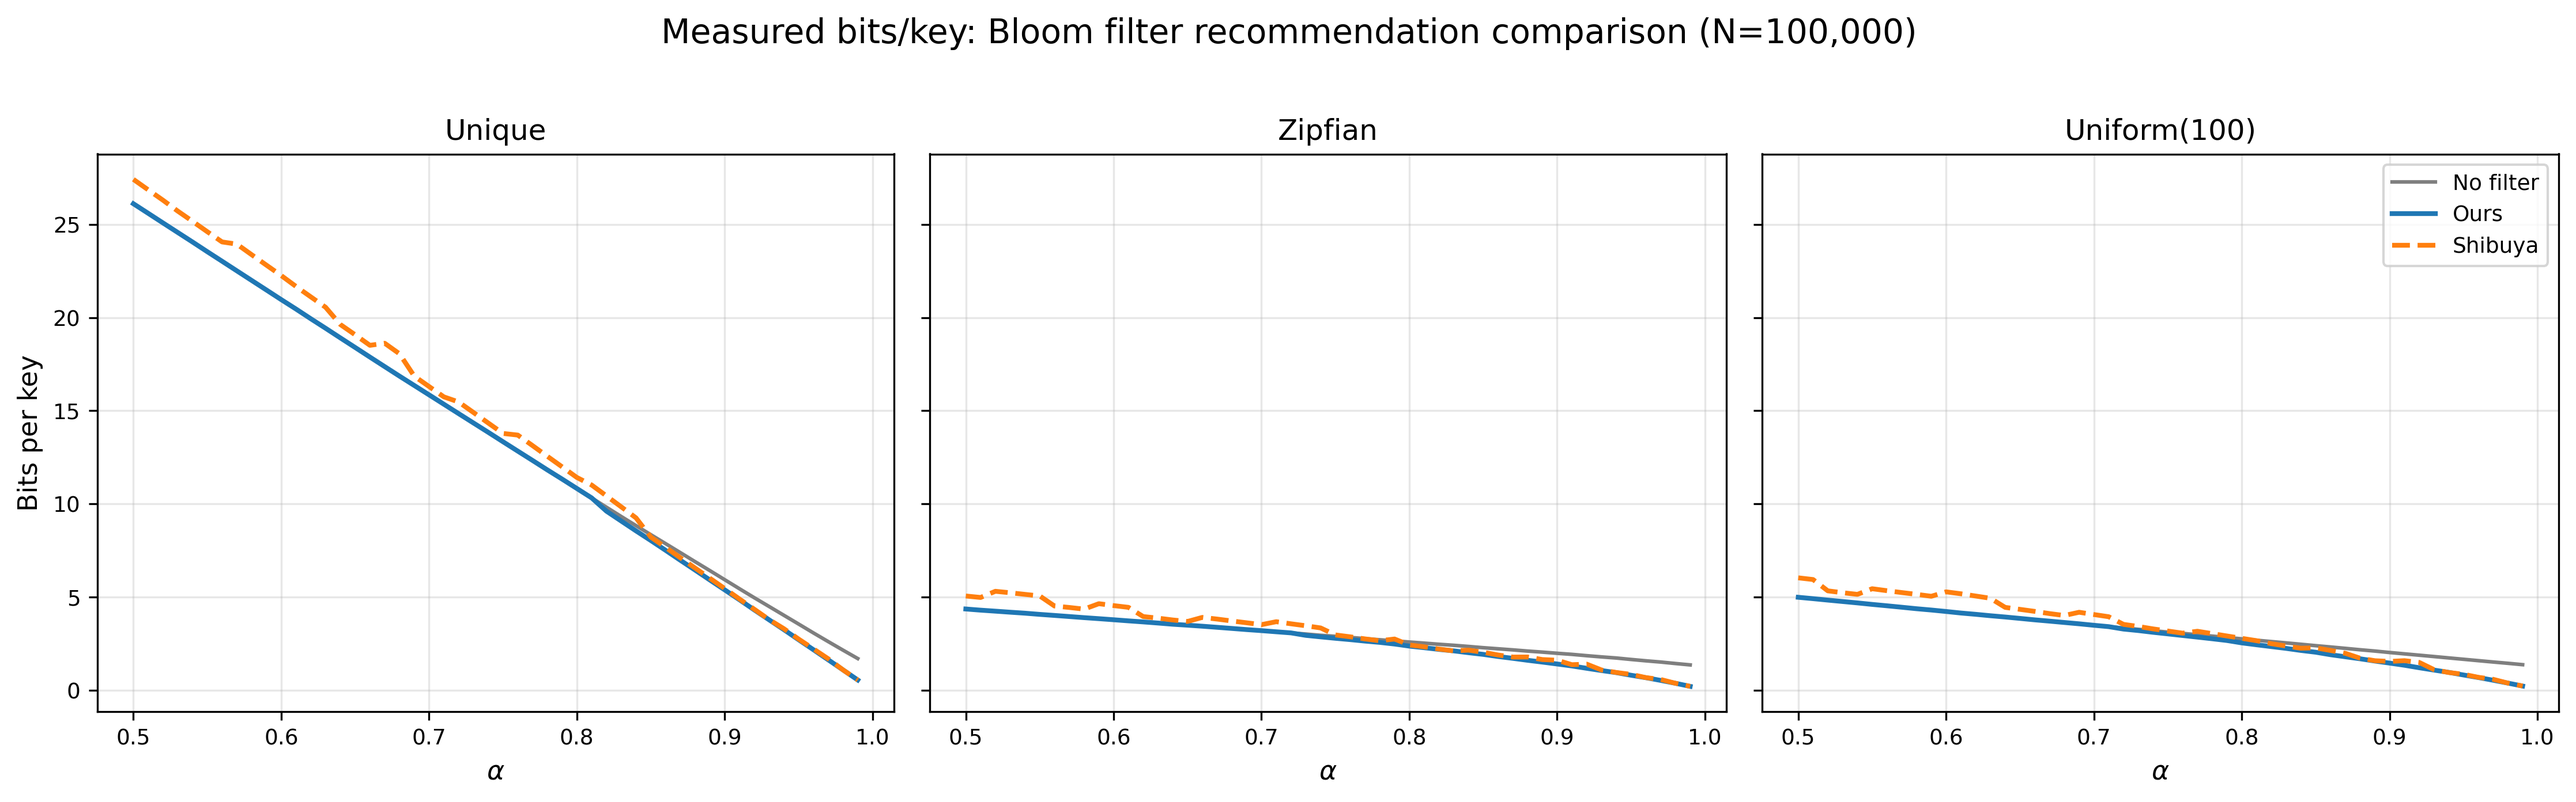
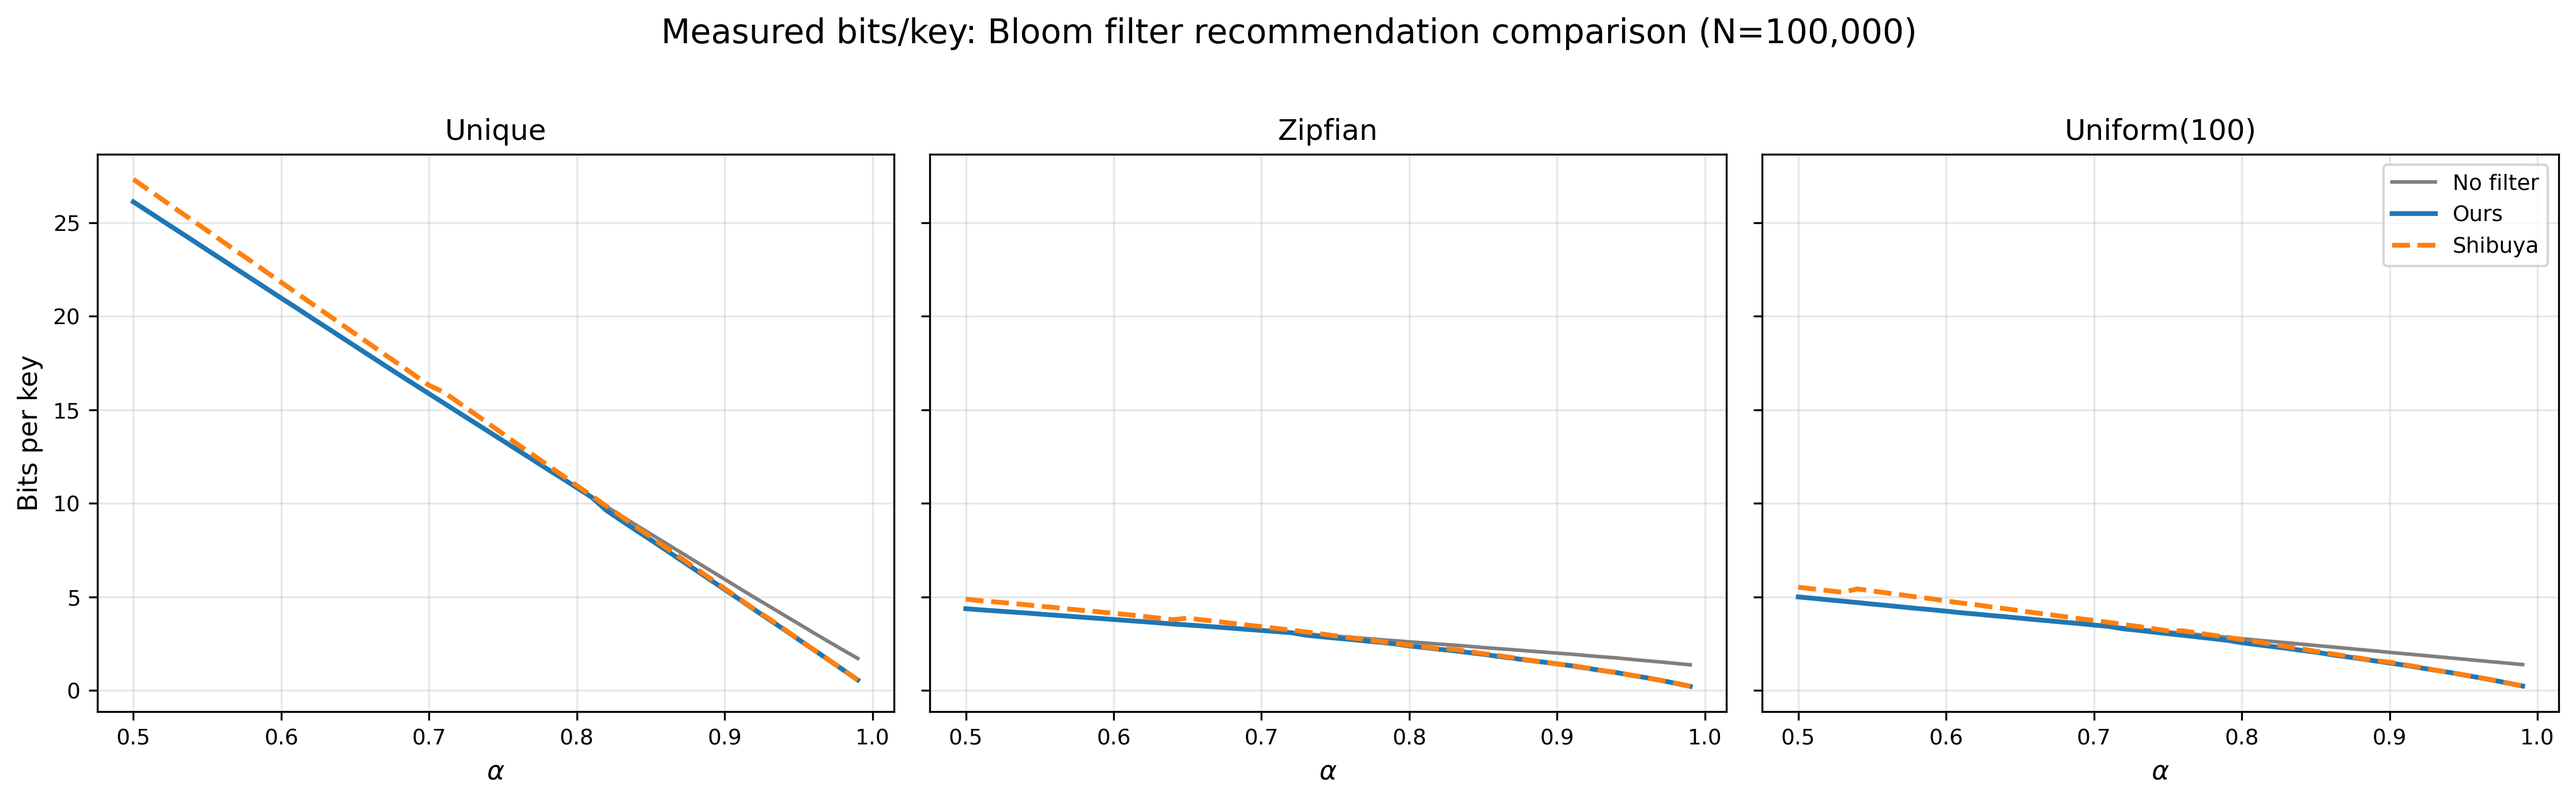
cleanup experiments

diff --git a/experiments/shibuya.py b/experiments/shibuya.py
@@ -1,18 +1,21 @@
-"""Shibuya's cost model for CSF+Filter epsilon derivation.
+"""Shibuya's cost model for CSF+Bloom filter epsilon derivation.
 
-Implements the alternative epsilon selection from Shibuya's analysis:
+Implements the epsilon selection from Shibuya et al. (WABI 2021):
     epsilon* = C_BF * (1 - alpha) / (C_CSF * alpha * ln2)
 
-where C_BF = 1.44 (idealized Bloom constant) and C_CSF is derived from
-empirical entropy of the value distribution.
+where C_BF = 1.44 (idealized Bloom constant) and C_CSF is a heuristic
+function of the empirical entropy H0.
+
+The canonical Bloom filter construction for a target epsilon is:
+    bits_per_element = ceil(log2(1/eps) * log2(e))
+    num_hashes = round(bits_per_element * ln(2))
 """
 
 import math
 
 import numpy as np
-from theory import binary_fuse_params, bloom_params, xor_params
 
-C_BF = 1.44
+C_BF = 1.44  # idealized Bloom filter constant (log2(e))
 
 
 def empirical_entropy(values):
@@ -39,50 +42,18 @@ def shibuya_optimal_epsilon(alpha, H0):
     return C_BF * (1 - alpha) / (C_CSF * alpha * math.log(2))
 
 
-def _closest_discrete_params(eps_star, candidates):
-    """Find the candidate whose epsilon is closest to eps_star in log space."""
-    best_candidate = None
-    best_dist = float("inf")
-    for candidate in candidates:
-        dist = abs(math.log(candidate["eps"]) - math.log(max(eps_star, 1e-15)))
-        if dist < best_dist:
-            best_dist = dist
-            best_candidate = candidate
-    return best_candidate
+def shibuya_bloom_params(alpha, H0):
+    """Compute Bloom filter parameters from Shibuya's optimal epsilon.
 
+    Uses the canonical Bloom filter construction:
+        bits_per_element = ceil(1.44 * log2(1/eps))
+        num_hashes = round(bits_per_element * ln(2))
 
-def shibuya_best_discrete_params(alpha, H0, filter_type):
-    """Map Shibuya's optimal epsilon to the nearest discrete filter parameters.
-
-    Returns dict with filter parameters and the achieved epsilon.
+    Returns (bits_per_element, num_hashes) or None if eps* >= 1 (no filter).
     """
     eps_star = shibuya_optimal_epsilon(alpha, H0)
-
-    if filter_type in ("xor", "binary_fuse"):
-        param_fn = xor_params if filter_type == "xor" else binary_fuse_params
-        candidates = [{"bits": bits, "eps": param_fn(bits)[1]} for bits in range(1, 9)]
-        best = _closest_discrete_params(eps_star, candidates)
-        _, achieved_eps = param_fn(best["bits"])
-        return {
-            "fingerprint_bits": best["bits"],
-            "epsilon": achieved_eps,
-            "epsilon_star": eps_star,
-        }
-
-    elif filter_type == "bloom":
-        candidates = [
-            {"bpe": bpe, "k": k, "eps": bloom_params(bpe, k)[1]}
-            for bpe in range(1, 9)
-            for k in range(1, 9)
-        ]
-        best = _closest_discrete_params(eps_star, candidates)
-        _, achieved_eps = bloom_params(best["bpe"], best["k"])
-        return {
-            "bloom_bits_per_element": best["bpe"],
-            "bloom_num_hashes": best["k"],
-            "epsilon": achieved_eps,
-            "epsilon_star": eps_star,
-        }
-
-    else:
-        raise ValueError(f"Unknown filter type: {filter_type}")
+    if eps_star >= 1:
+        return None
+    bits_per_element = max(1, math.ceil(C_BF * math.log2(1 / eps_star)))
+    num_hashes = max(1, round(bits_per_element * math.log(2)))
+    return bits_per_element, num_hashes

diff --git a/experiments/shibuya_comparison/make_plots.py b/experiments/shibuya_comparison/make_plots.py
@@ -22,11 +22,7 @@ _dir = os.path.dirname(os.path.abspath(__file__))
 sys.path.insert(0, os.path.join(_dir, ".."))
 
 from data_gen import compute_actual_alpha, gen_alpha_values, gen_keys
-from shibuya import (
-    empirical_entropy,
-    shibuya_best_discrete_params,
-    shibuya_optimal_epsilon,
-)
+from shibuya import empirical_entropy, shibuya_bloom_params
 from theory import best_discrete_bloom
 
 FIGURES_DIR = os.path.join(_dir, "figures")
@@ -57,15 +53,6 @@ def our_recommendation(alpha, n_over_N):
     return best_bpe, best_nh
 
 
-def shibuya_recommendation(alpha, H0):
-    """Returns (bits_per_element, num_hashes) or None if eps* >= 1."""
-    eps_star = shibuya_optimal_epsilon(alpha, H0)
-    if eps_star >= 1:
-        return None
-    result = shibuya_best_discrete_params(alpha, H0, "bloom")
-    return result["bloom_bits_per_element"], result["bloom_num_hashes"]
-
-
 def _measure_with_recommendation(keys, values, rec, baseline_bpk):
     if rec is None:
         return baseline_bpk
@@ -86,7 +73,7 @@ def run_experiments():
 
             baseline_bpk = build_and_measure_bpk(keys, values)
             our_rec = our_recommendation(actual_alpha, n_over_N)
-            shib_rec = shibuya_recommendation(actual_alpha, H0)
+            shib_rec = shibuya_bloom_params(actual_alpha, H0)
 
             our_bpk = _measure_with_recommendation(keys, values, our_rec, baseline_bpk)
             shib_bpk = _measure_with_recommendation(

diff --git a/experiments/baselines/methods.py b/experiments/baselines/methods.py
@@ -11,7 +11,7 @@ sys.path.insert(0, os.path.join(_dir, ".."))
 
 import theory
 from data_gen import compute_actual_alpha
-from shibuya import empirical_entropy, shibuya_best_discrete_params
+from shibuya import empirical_entropy, shibuya_bloom_params
 
 
 def _make_filter_config(filter_type, params):
@@ -82,9 +82,15 @@ def _find_optimal_params(filter_type, keys, values):
 
 
 def _find_shibuya_params(filter_type, keys, values):
+    if filter_type != "bloom":
+        raise ValueError(f"Shibuya's method only applies to Bloom filters, got: {filter_type}")
     alpha = compute_actual_alpha(values)
     H0 = empirical_entropy(values)
-    return shibuya_best_discrete_params(alpha, H0, filter_type)
+    result = shibuya_bloom_params(alpha, H0)
+    if result is None:
+        raise ValueError(f"Shibuya recommends no filter (eps* >= 1) for alpha={alpha:.4f}")
+    bits_per_element, num_hashes = result
+    return {"bloom_bits_per_element": bits_per_element, "bloom_num_hashes": num_hashes}
 
 
 class CSFFilter:
